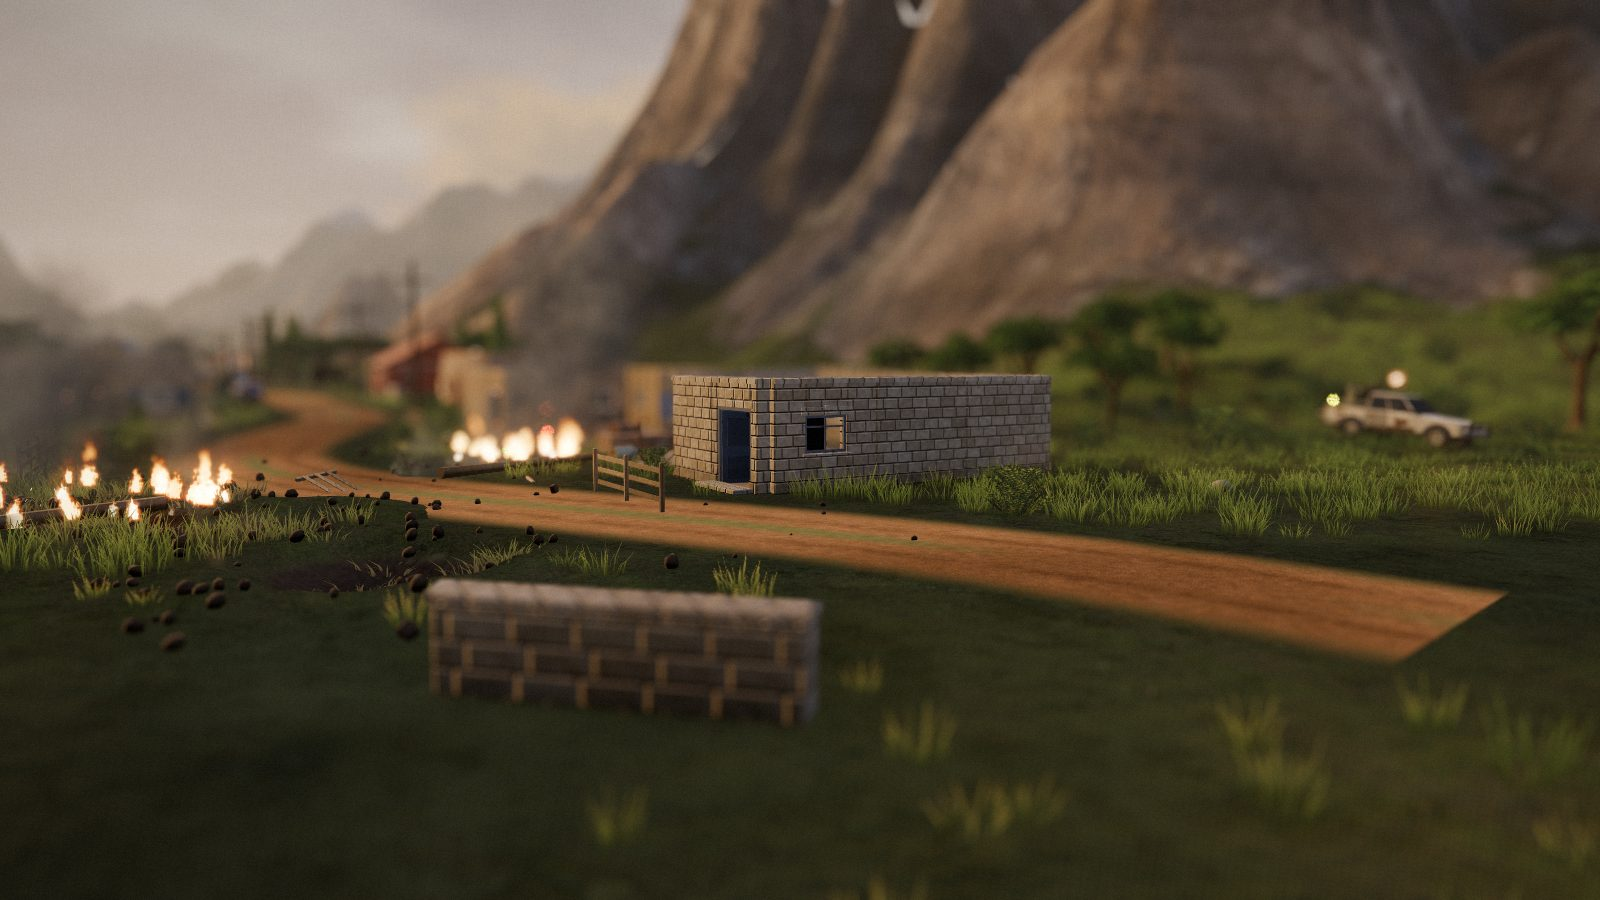
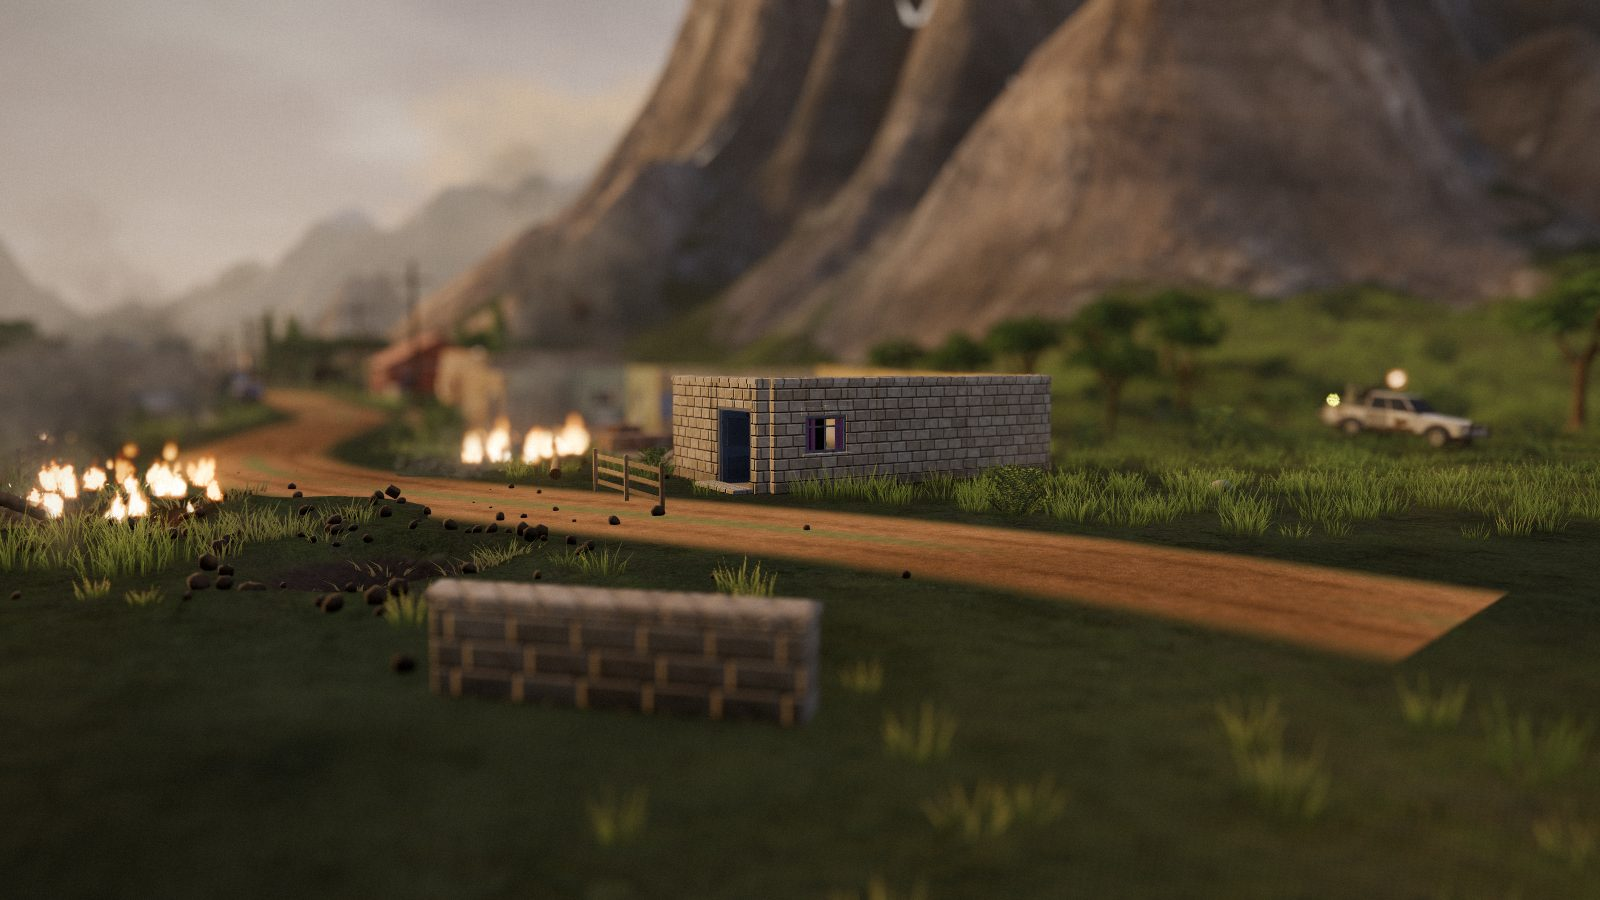
Photo mode: re-render the changelog stills with the heat haze toggle

diff --git a/changelog/unreleased/photo-mode.md b/changelog/unreleased/photo-mode.md
@@ -6,7 +6,7 @@ headline = true
 
 [[screenshots]]
 file = "panel.jpg"
-caption = "Photo mode over a held moment at Beachhead: the lens focused on the stone house at 22 m, flare, sun shafts and film look on"
+caption = "Photo mode over a held moment at Beachhead: the lens focused on the stone house at 22 m, flare, sun shafts, film look and heat haze on"
 
 [[screenshots]]
 file = "picture.jpg"
